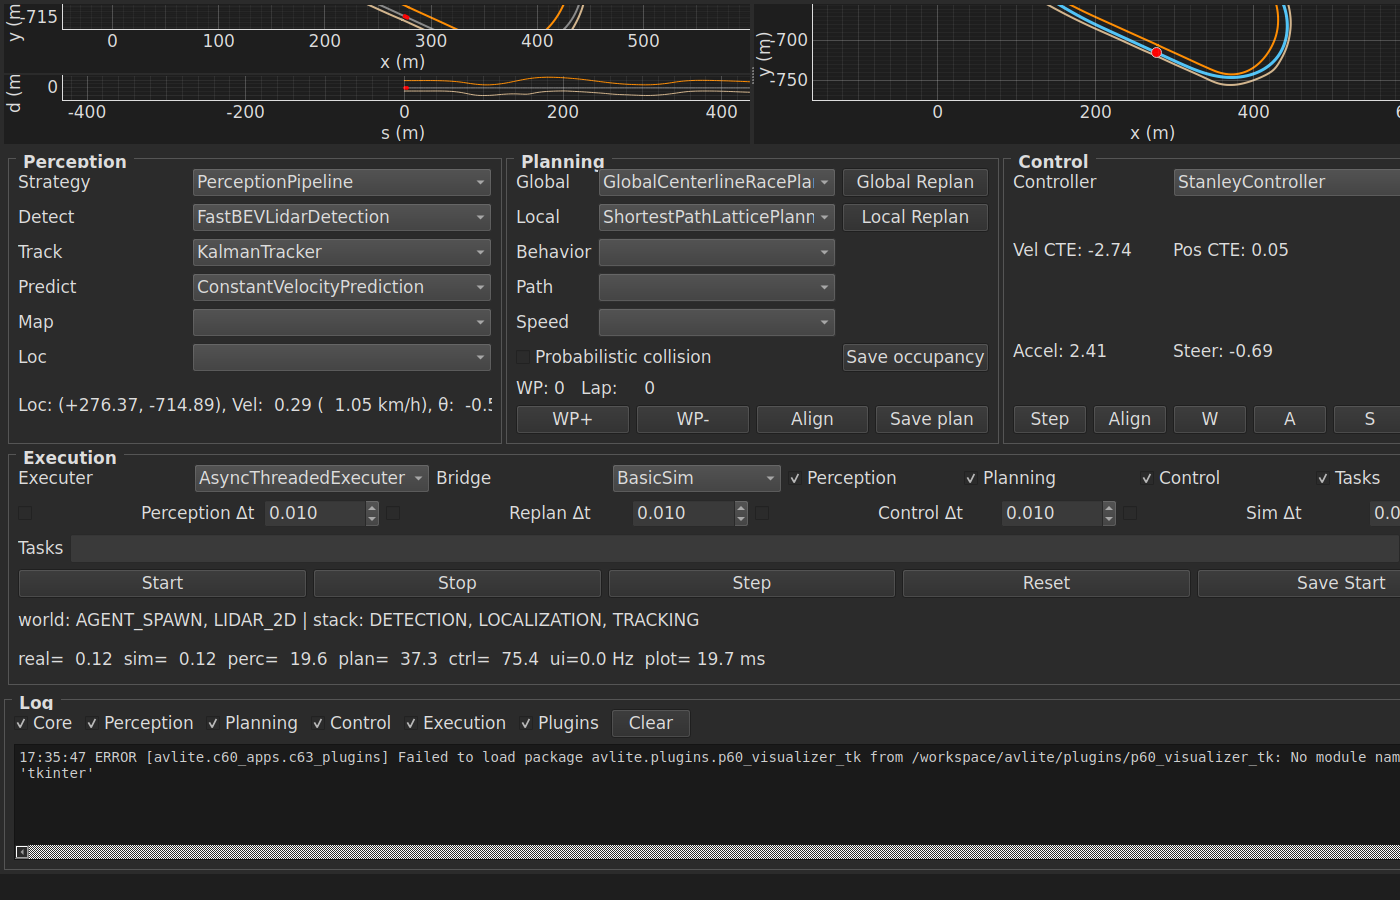
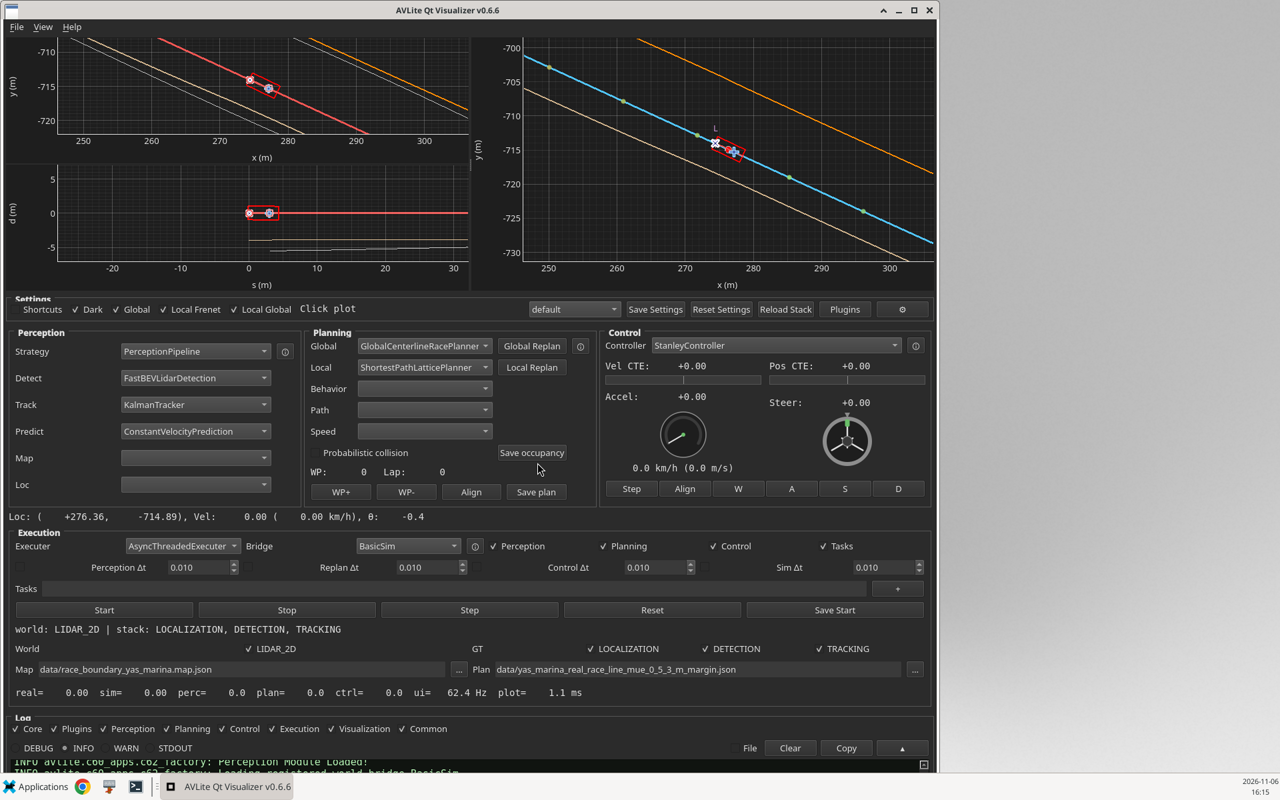
Update Qt visualizer README screenshots from live BasicSim shots.
Replace the main window image, add a Control panel close-up, and
refresh the Screenshots section intro for live Yas Marina captures.

diff --git a/README.md b/README.md
@@ -118,9 +118,11 @@ Not identical to Tk (called out so the checklist stays honest):
 
 ## Screenshots
 
-Offscreen renders against BasicSim (Yas Marina):
+Live BasicSim / Yas Marina shots (UI ~60 Hz, km/h speed dial):
 
 ![Main window](docs/qt_visualizer_main.png)
+
+![Control panel](docs/qt_visualizer_control_panel.png)
 
 ![Shortcut mode](docs/qt_visualizer_shortcut_mode.png)
 
